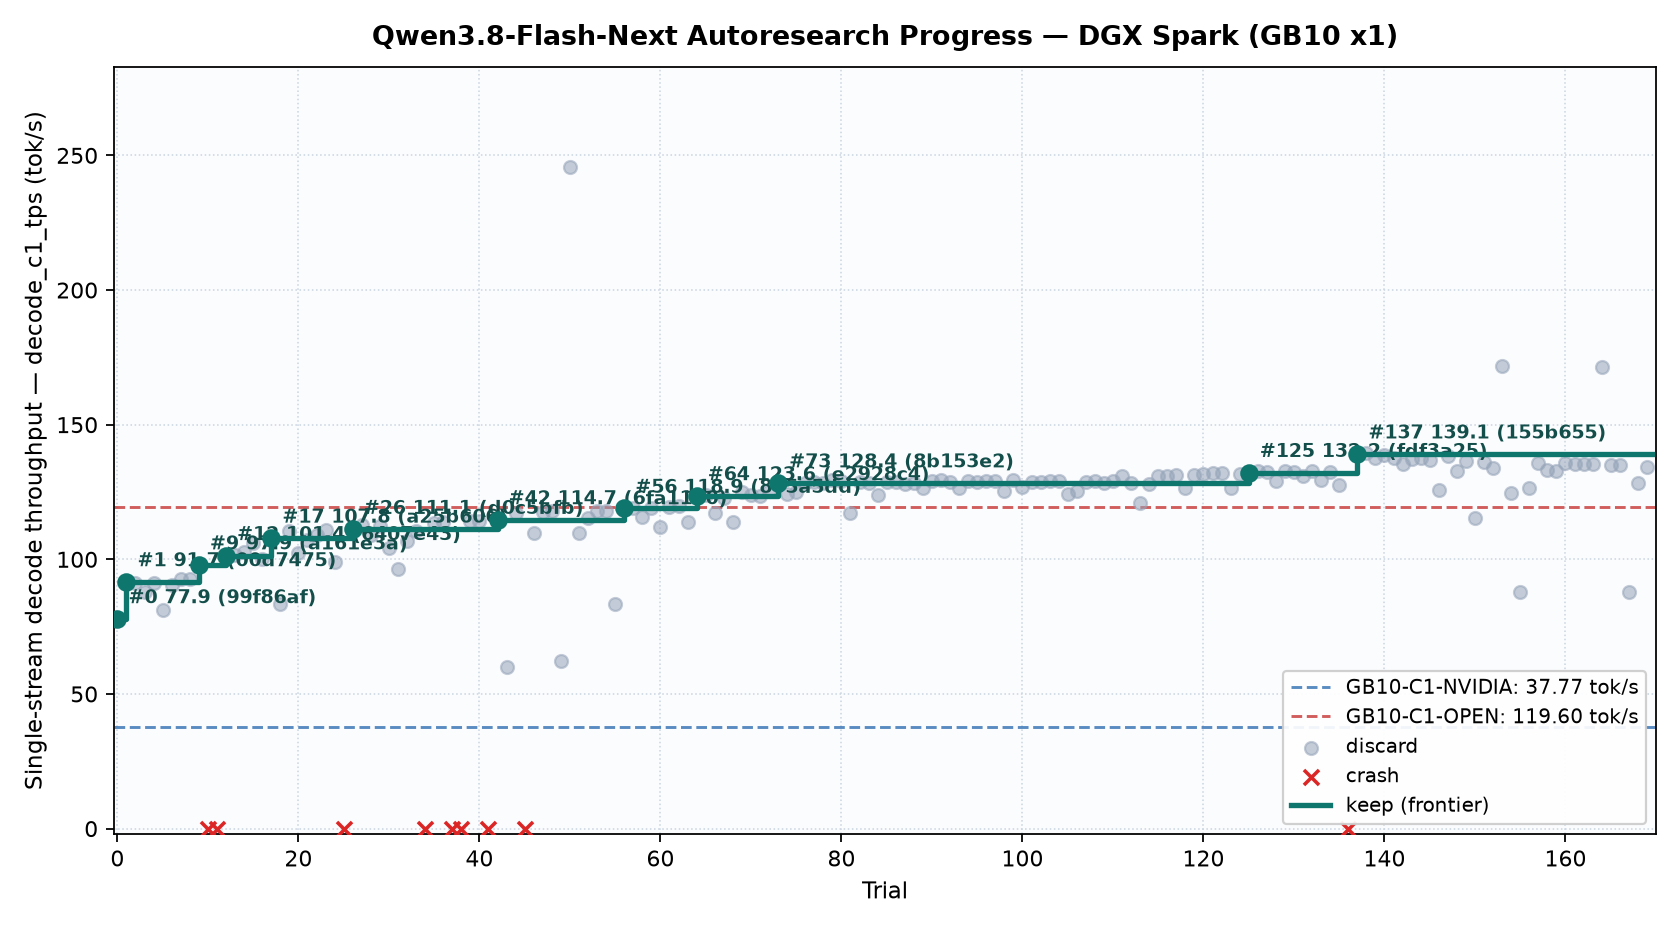
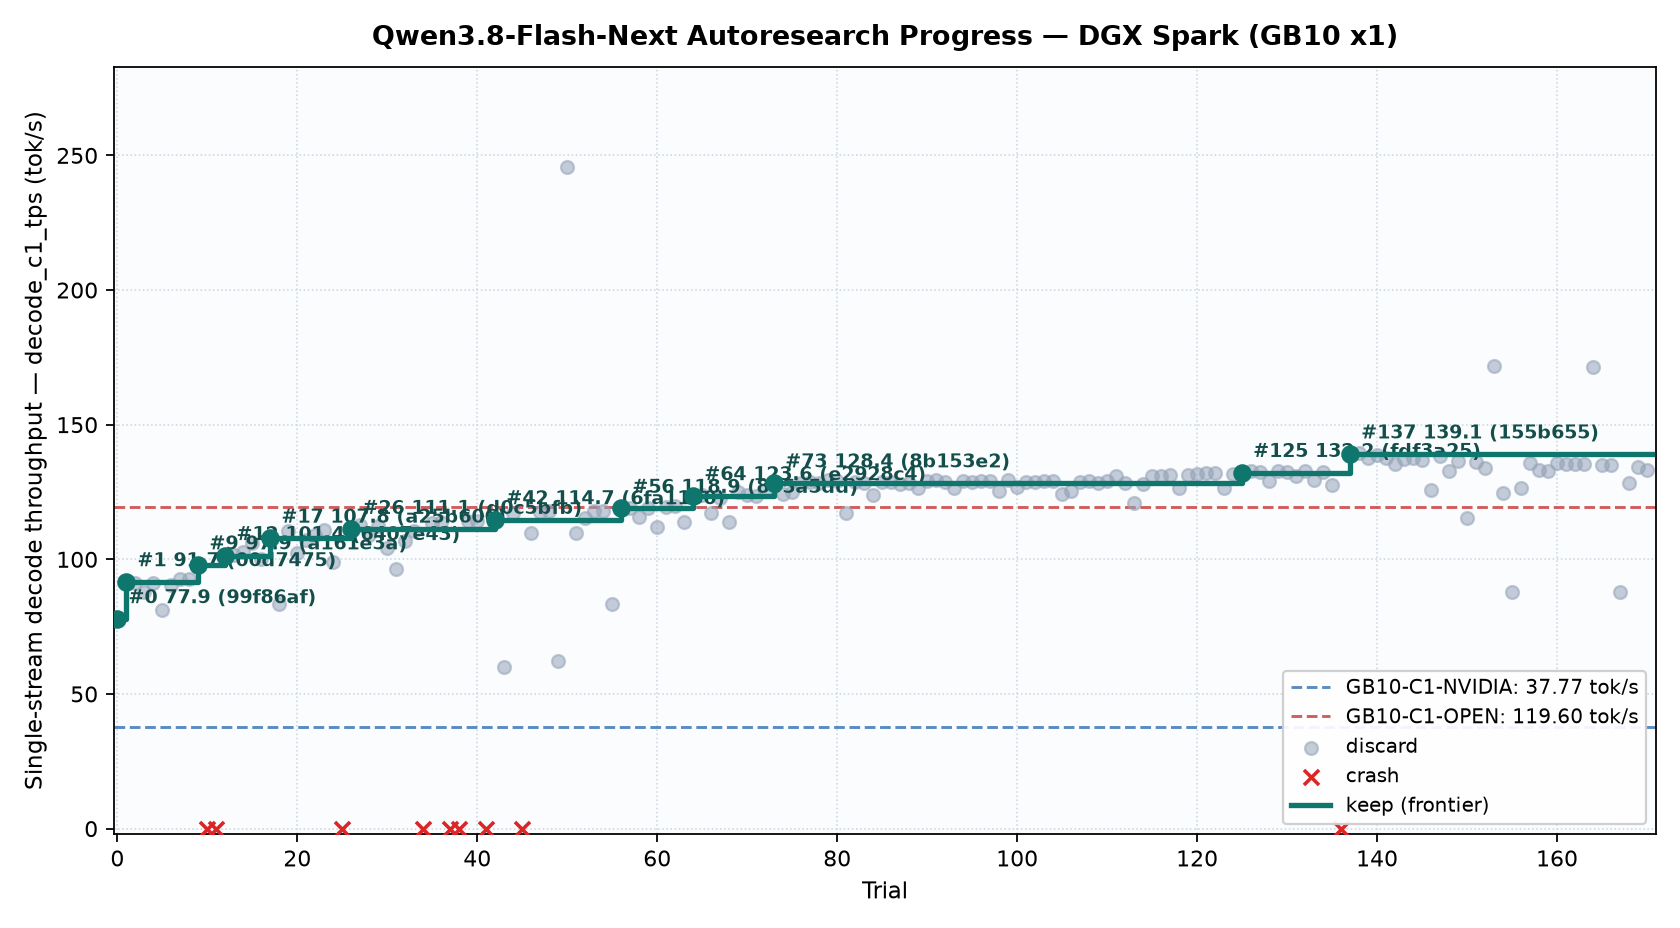
spark trial 170: discard

diff --git a/records/research-log.md b/records/research-log.md
@@ -199,3 +199,4 @@ Deprioritized: **3-bit expert weights** (Hibana +43% but GPQA -0.3, LCB -2.3; on
 | 2026-11-22 02:30 | 167 (new stack) | <https://github.com/sharar-project/hibana/blob/v0.1.0/docs/flashnext.md> | Reviewed six release, commit and PR feeds. Trial 166 recorded 135.03 C1 (discard). Singleton sharing in trial 164 improved C1 by 23.15% but missed the C8 floor. | Hibana item 1. Extend the 8% per-row budget to experts used by two rows only when both vote to drop them. Retain every expert lacking unanimous consent. |
 | 2026-11-22 02:39 | 168 (new stack) | <https://github.com/sharar-project/hibana/blob/v0.1.0/docs/flashnext.md> | Reviewed six release, commit and PR feeds. Trial 167 recorded 88.01 C1 (discard). Earlier target-side sharing changed greedy hashes. | Hibana item 1. Prune only inside the MTP drafter: omit a contiguous suffix of up to four experts when its cumulative weight stays within 8%, then renormalize. Use the parent routing rule for target verification. |
 | 2026-11-22 02:47 | 169 (new stack) | <https://github.com/vllm-project/vllm/issues/68711> | Reviewed six release, commit and PR feeds. Trial 168 recorded 128.21 C1 (discard). The upstream proposal separates draft-head precision from target verification. | Keep the binary proposal and BF16 shortlist. Store one signed mean weight residual per 64 input channels, then correct their dot product with activation group sums. |
+| 2026-11-22 02:56 | 170 (new stack) | <https://github.com/ashhart/TensorFold/blob/v1.2.9/zig/kernels/cuda/nvfp4_experts.cu> | Reviewed six release, commit and PR feeds. Trial 169 recorded 134.37 C1 (discard). Previous auxiliary indices retained output hashes but missed the throughput gate. | Keep the existing sorted exception table. Decode each four-scale group with one lower bound and consecutive reads for additional exceptions. |
